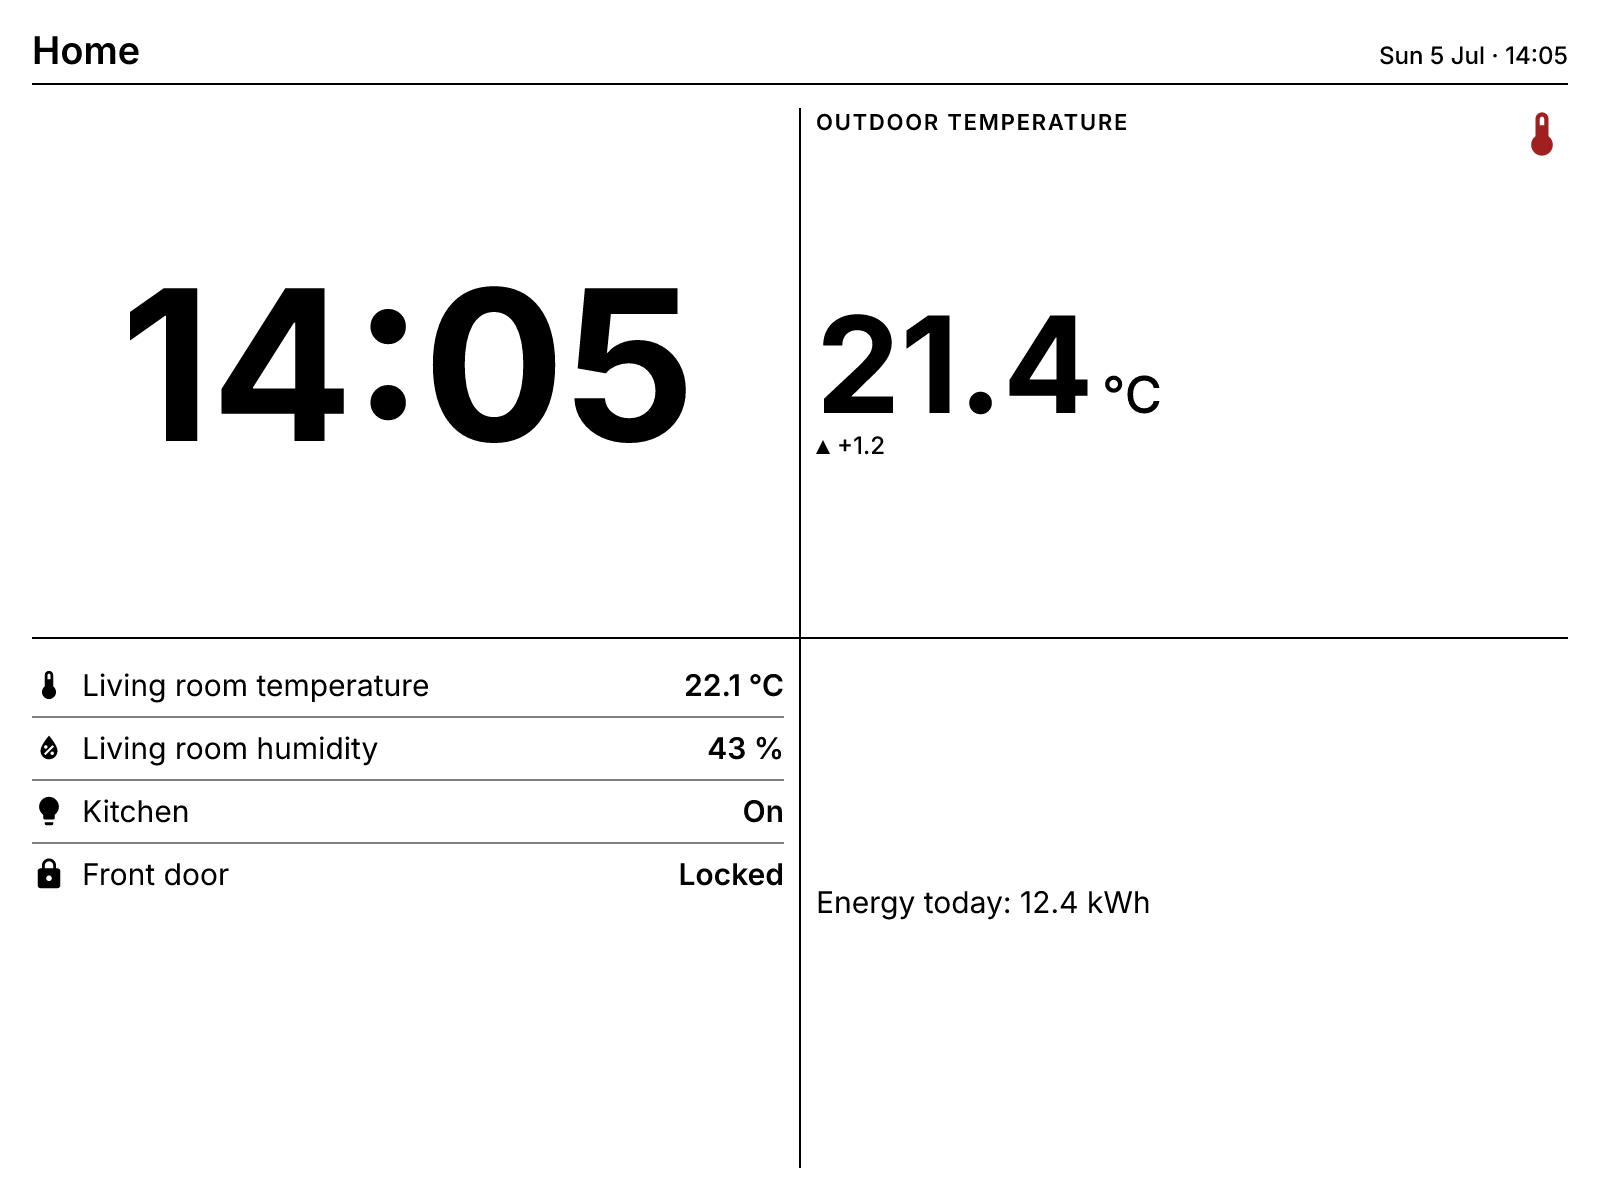
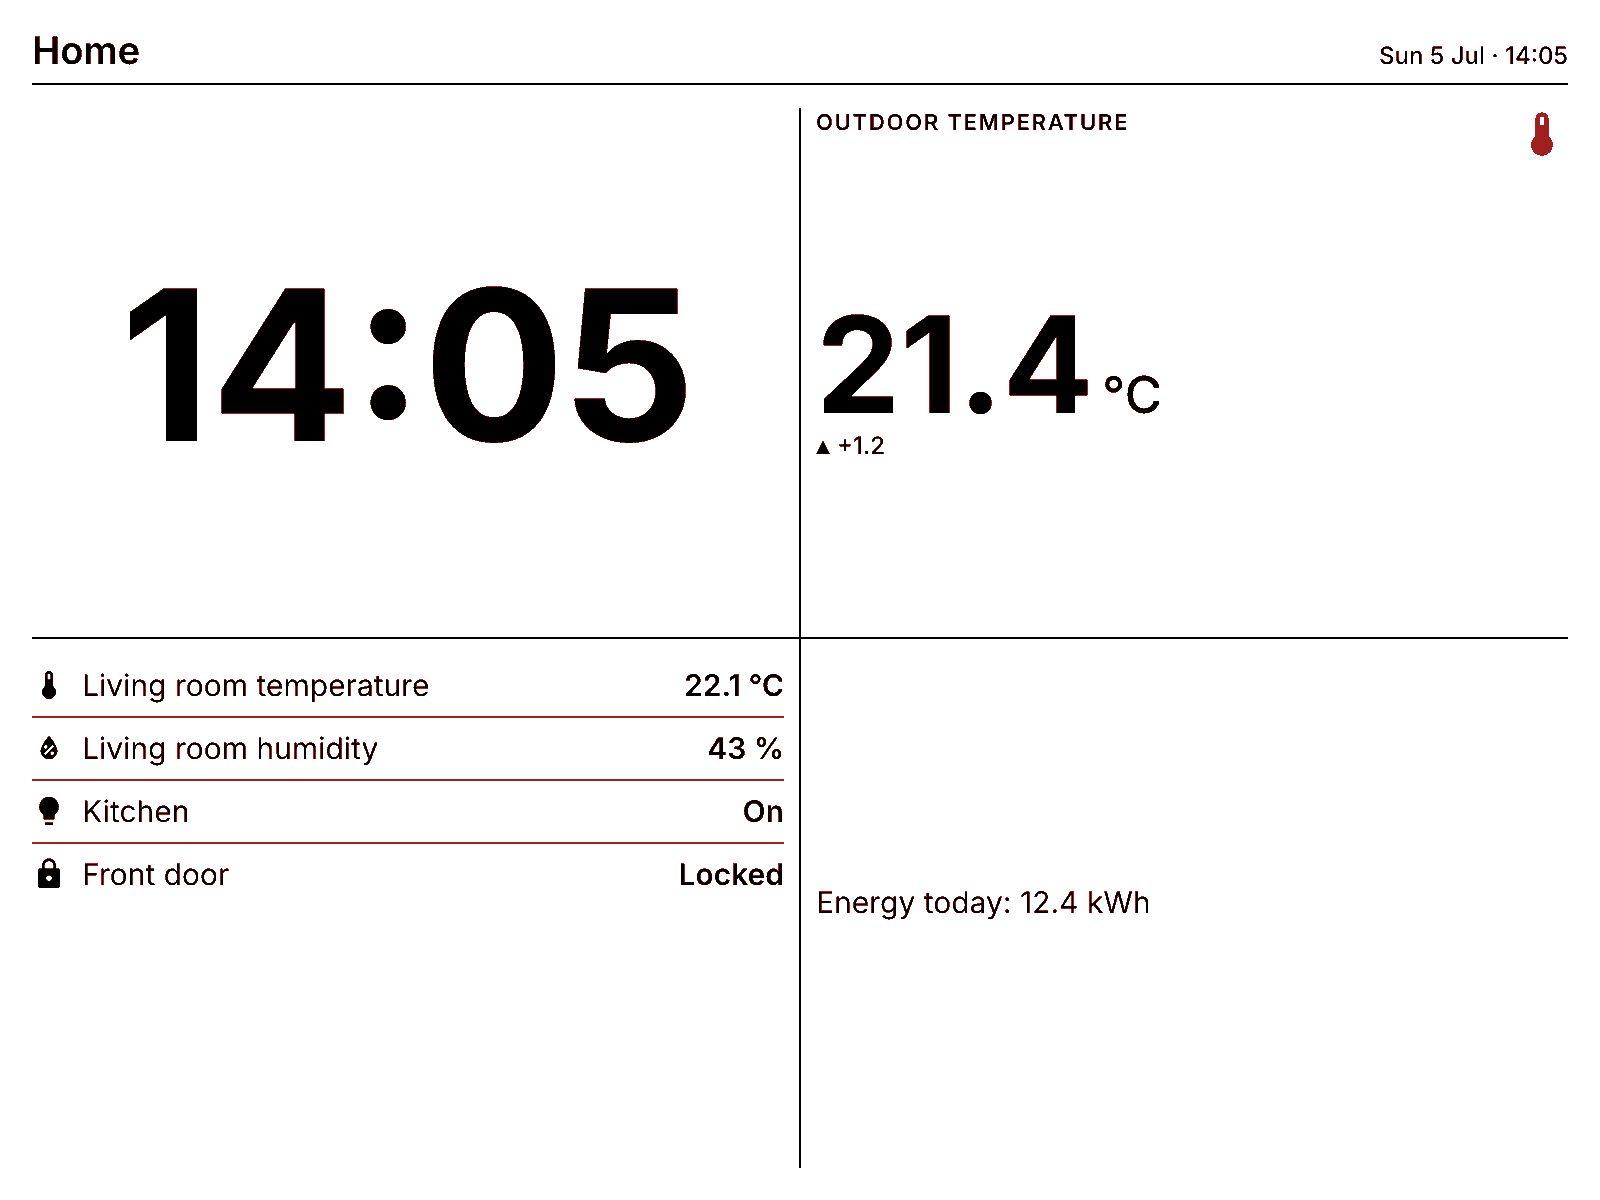
Snap antialiased edges to the screen's used palette colours
Hardware-verified defect: resvg's antialiased glyph/line edges are mid-grey
blends, and the panel's calibrated green (#608050) sits close enough to
mid-grey that ~12k edge pixels on a plain black-on-white screen quantised to
green speckle (blue/yellow fringes around the red stat likewise).

SvgDoc now records every fill/stroke colour, and render_screen_png snaps the
rasterised PNG to that used-colour set — AA blends collapse onto their two
parent colours, making output 100% palette-pure by construction (and the
future upload-skip content hash stable). Purity test tightened from >=95% to
exactly 100%.

Claude-Session: https://claude.ai/code/session_01JHjbS3YXAFQ2dY6bdUpaty

diff --git a/custom_components/fraimic/render/svg.py b/custom_components/fraimic/render/svg.py
@@ -98,22 +98,32 @@ def fit_size(text: str, max_w: float, base: int, minimum: int, weight: int = 400
 
 
 class SvgDoc:
-    """Accumulates SVG elements and serialises the document."""
+    """Accumulates SVG elements and serialises the document.
+
+    Every fill/stroke colour is recorded in ``colors`` so the rasterised
+    output can be snapped back to exactly the palette colours the screen
+    uses (see ``snap_to_colors``) — resvg's antialiased edge pixels would
+    otherwise quantise unpredictably (mid-grey edges land on the panel's
+    *muted* green/blue instead of black/white).
+    """
 
     def __init__(self, width: int, height: int, background: str) -> None:
         self.width = width
         self.height = height
+        self.colors: set[str] = {background}
         self._parts: list[str] = [
             f'<rect width="{width}" height="{height}" fill="{background}"/>'
         ]
 
     def rect(self, x: int, y: int, w: int, h: int, fill: str, rx: int = 0) -> None:
+        self.colors.add(fill)
         rx_attr = f' rx="{rx}"' if rx else ""
         self._parts.append(
             f'<rect x="{x}" y="{y}" width="{w}" height="{h}" fill="{fill}"{rx_attr}/>'
         )
 
     def line(self, x1: int, y1: int, x2: int, y2: int, stroke: str, width: int) -> None:
+        self.colors.add(stroke)
         self._parts.append(
             f'<line x1="{x1}" y1="{y1}" x2="{x2}" y2="{y2}" '
             f'stroke="{stroke}" stroke-width="{width}"/>'
@@ -123,14 +133,18 @@ class SvgDoc:
         self, cx: int, cy: int, r: int, *, fill: str = "none",
         stroke: str | None = None, stroke_width: int = 0,
     ) -> None:
-        stroke_attr = (
-            f' stroke="{stroke}" stroke-width="{stroke_width}"' if stroke else ""
-        )
+        if fill != "none":
+            self.colors.add(fill)
+        stroke_attr = ""
+        if stroke:
+            self.colors.add(stroke)
+            stroke_attr = f' stroke="{stroke}" stroke-width="{stroke_width}"'
         self._parts.append(
             f'<circle cx="{cx}" cy="{cy}" r="{r}" fill="{fill}"{stroke_attr}/>'
         )
 
     def path(self, d: str, fill: str, transform: str | None = None) -> None:
+        self.colors.add(fill)
         transform_attr = f" transform={quoteattr(transform)}" if transform else ""
         self._parts.append(f'<path d={quoteattr(d)} fill="{fill}"{transform_attr}/>')
 
@@ -147,6 +161,7 @@ class SvgDoc:
         letter_spacing: float = 0.0,
     ) -> None:
         """Add a text element (``y`` is the baseline)."""
+        self.colors.add(fill)
         spacing_attr = (
             f' letter-spacing="{letter_spacing:g}"' if letter_spacing else ""
         )
@@ -201,3 +216,42 @@ def rasterize(svg: str, width: int, height: int) -> bytes:
             sans_serif_family=FONT_FAMILY,
         )
     )
+
+
+def snap_to_colors(png: bytes, hex_colors: set[str]) -> bytes:
+    """Snap every pixel of ``png`` to the nearest colour in ``hex_colors``.
+
+    Screens are drawn exclusively in exact palette colours, so the only
+    off-palette pixels are resvg's antialiased edges — blends of two used
+    colours. Snapping each to the nearest *used* colour collapses text/line
+    edges onto their parent colours (verified on hardware: without this,
+    black-on-white glyph edges quantise to the panel's muted green — ~12k
+    speckle pixels on a plain screen). The result is 100% palette-pure and
+    deterministic, which also makes the upload-skip content hash stable.
+    """
+    import io
+
+    import numpy as np
+    from PIL import Image
+
+    colors = np.array(
+        [tuple(int(c[i : i + 2], 16) for i in (1, 3, 5)) for c in sorted(hex_colors)],
+        dtype=np.int32,
+    )
+    with Image.open(io.BytesIO(png)) as img:
+        arr = np.asarray(img.convert("RGB"), dtype=np.int32)
+    shape = arr.shape
+    flat = arr.reshape(-1, 3)
+    # One colour at a time to avoid a huge (N, C, 3) broadcast temporary.
+    best_dist = np.full(flat.shape[0], np.iinfo(np.int32).max, dtype=np.int32)
+    best_index = np.zeros(flat.shape[0], dtype=np.uint8)
+    for index, color in enumerate(colors):
+        diff = flat - color
+        dist = np.einsum("ij,ij->i", diff, diff)
+        closer = dist < best_dist
+        best_dist[closer] = dist[closer]
+        best_index[closer] = index
+    snapped = colors[best_index].astype(np.uint8).reshape(shape)
+    out = io.BytesIO()
+    Image.fromarray(snapped, "RGB").save(out, format="PNG")
+    return out.getvalue()

diff --git a/custom_components/fraimic/render/compose.py b/custom_components/fraimic/render/compose.py
@@ -11,7 +11,7 @@ import logging
 from .context import RenderContext
 from .layout import divider_lines, slot_rects
 from .schema import ScreenConfig
-from .svg import SvgDoc, measure, rasterize, truncate
+from .svg import SvgDoc, measure, rasterize, snap_to_colors, truncate
 from .theme import Theme
 from .widgets import WIDGET_REGISTRY
 from .widgets.base import render_error
@@ -19,8 +19,8 @@ from .widgets.base import render_error
 _LOGGER = logging.getLogger(__name__)
 
 
-def build_svg(screen: ScreenConfig, ctx: RenderContext, width: int, height: int) -> str:
-    """Build the complete screen SVG at the *viewed* resolution."""
+def build_doc(screen: ScreenConfig, ctx: RenderContext, width: int, height: int) -> SvgDoc:
+    """Build the complete screen SVG document at the *viewed* resolution."""
     theme = Theme.for_screen(
         width,
         height,
@@ -57,7 +57,12 @@ def build_svg(screen: ScreenConfig, ctx: RenderContext, width: int, height: int)
             )
             render_error(doc, rect, f"{widget.type} failed to render", theme)
 
-    return doc.to_string()
+    return doc
+
+
+def build_svg(screen: ScreenConfig, ctx: RenderContext, width: int, height: int) -> str:
+    """The composed screen as an SVG string."""
+    return build_doc(screen, ctx, width, height).to_string()
 
 
 def _header(doc: SvgDoc, screen: ScreenConfig, ctx: RenderContext, theme: Theme) -> None:
@@ -82,5 +87,11 @@ def _header(doc: SvgDoc, screen: ScreenConfig, ctx: RenderContext, theme: Theme)
 def render_screen_png(
     screen: ScreenConfig, ctx: RenderContext, width: int, height: int
 ) -> bytes:
-    """Rasterise the composed screen to PNG bytes (executor-only)."""
-    return rasterize(build_svg(screen, ctx, width, height), width, height)
+    """Rasterise the composed screen to 100% palette-pure PNG bytes.
+
+    Executor-only (CPU-bound). Antialiased edge pixels are snapped back to
+    the set of colours the screen actually uses — otherwise they quantise
+    unpredictably on the panel (grey glyph edges land on muted green).
+    """
+    doc = build_doc(screen, ctx, width, height)
+    return snap_to_colors(rasterize(doc.to_string(), width, height), doc.colors)

diff --git a/tests/test_render_engine.py b/tests/test_render_engine.py
@@ -93,7 +93,12 @@ def test_render_is_deterministic() -> None:
 
 
 def test_palette_purity_and_bin_roundtrip() -> None:
-    """Most pixels are exact palette colours; the .bin conversion is stable."""
+    """Every pixel is an exact palette colour; the .bin conversion is stable.
+
+    100% purity is guaranteed by construction: antialiased edges are snapped
+    back to the screen's used colours after rasterising (without that, grey
+    glyph edges quantise to the panel's muted green — seen on hardware).
+    """
     import numpy as np
     from PIL import Image
 
@@ -106,7 +111,7 @@ def test_palette_purity_and_bin_roundtrip() -> None:
     for color in palette:
         exact |= (arr == color).all(axis=1)
     purity = float(exact.mean())
-    assert purity >= 0.95, f"only {purity:.1%} of pixels are exact palette colours"
+    assert purity == 1.0, f"only {purity:.2%} of pixels are exact palette colours"
 
     # The full path a screen takes to the frame: quantise with mode "none" and
     # NO preprocessing. Deterministic + valid nibbles + exact size.